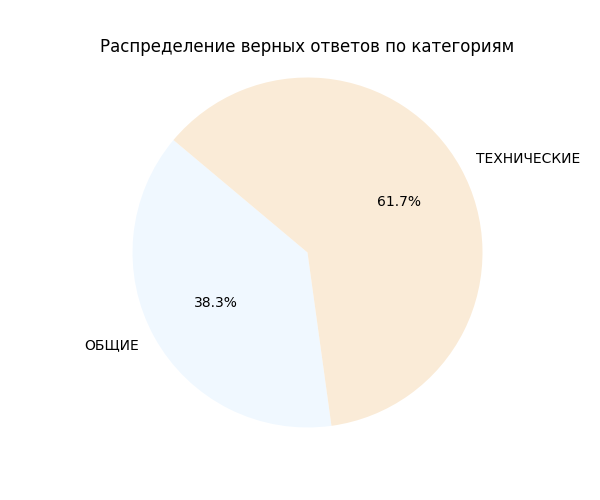
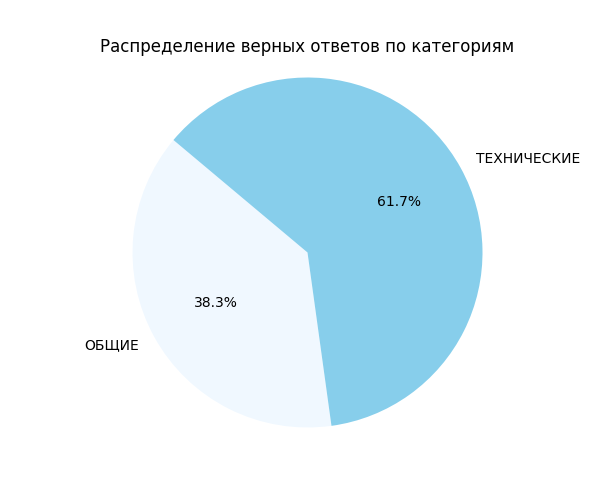
it get stat and displays it in html

Changed region(s): [[0.27, 0.15, 0.81, 0.87]]

diff --git a/magicflot/templates/magicflot/base.html b/magicflot/templates/magicflot/base.html
@@ -21,7 +21,7 @@
 
 <nav class="navbar navbar-expand-lg navbar-dark gradient_bg" >
   <div class="container-fluid">
-    <a class="navbar-brand" href="https://%D0%B3%D0%BE%D1%80%D0%BE%D0%B4%D0%B2%D0%BE%D0%BB%D1%88%D0%B5%D0%B1%D0%BD%D1%8B%D1%85%D0%BA%D0%BE%D1%80%D0%B0%D0%B1%D0%BB%D0%B5%D0%B9.%D1%80%D1%84/">    
+    <a class="navbar-brand" href='{% url "magicflot:index" %}'>    
     <img class='logo_tech pe-1' src='{% static "logo_tech.png" %}'>
 
     <svg width="139" height="74" viewBox="0 0 139 74" fill="none" xmlns="http://www.w3.org/2000/svg">
@@ -69,14 +69,29 @@
 
 <footer class='gradient_bg fixed-bottom'>
   
-  <div class="d-flex justify-content-center py-1">
-    <a class="nav-link white_milk" href='{% url "magicflot:game" %}'>Игра</a>
-    <a class="nav-link white_milk" href='{% url "gallery:gallery" %}'>Галерея</a>
-    <a class="nav-link white_milk" href='{% url "magicflot:about" %}'>О проекте</a>
-    <a class="nav-link white_milk" href='{% url "magicflot:blog" %}'>Блог</a>
-    <a class="nav-link white_milk" href='{% url "magicflot:book" %}'>Сборник</a>
-    
-    </div>
+  <div class='d-none d-md-block d-lg-block d-xl-block d-xxl-block'>
+	  <div class="d-flex justify-content-center py-1">
+	    <a class="nav-link white_milk" href='{% url "magicflot:game" %}'>Игра</a>
+	    <a class="nav-link white_milk" href='{% url "gallery:gallery" %}'>Галерея</a>
+	    <a class="nav-link white_milk" href='{% url "magicflot:about" %}'>О проекте</a>
+	    <a class="nav-link white_milk" href='{% url "magicflot:blog" %}'>Блог</a>
+	    <a class="nav-link white_milk" href='{% url "magicflot:book" %}'>Сборник</a>
+	  </div>
+  </div>
+
+  <div class='d-block d-md-none'>
+			<div class="d-flex justify-content-center py-1">
+		    <a class="nav-link white_milk" href='{% url "magicflot:game" %}'>Игра</a>
+		    <a class="nav-link white_milk" href='{% url "gallery:gallery" %}'>Галерея</a>
+		    <a class="nav-link white_milk" href='{% url "magicflot:book" %}'>Сборник</a>
+		  </div>
+
+			<div class="d-flex justify-content-center py-1">
+	    	<a class="nav-link white_milk" href='{% url "magicflot:about" %}'>О проекте</a>
+		    <a class="nav-link white_milk" href='{% url "magicflot:blog" %}'>Блог</a>
+		  </div>
+	</div>
+
 	<center>
 	
 		<p class='copyright pt-3'>© 2024, ГОРОД ВОЛШЕБНЫХ КОРАБЛЕЙ </p>

diff --git a/magicflot/templates/magicflot/stat.html b/magicflot/templates/magicflot/stat.html
@@ -6,6 +6,15 @@
 	body{
 		background: rgb(48, 147, 128);
 	}
+	.all_bars_container{
+		display: grid;
+		grid-gap: 10px;
+		grid-template-columns: repeat(auto-fit, minmax(500px, 1fr));
+		width: 96%;
+	  	margin-left: auto;
+		margin-right: auto;
+	}
+
 @media (min-width: 1025px){
 	.h22em { max-height: 32em; }
 }
@@ -33,9 +42,15 @@
 		</div>
 
 
+		<div class='all_bars_container'>
+			{% for bar in bars %}
+				<img class='h22em' src="{% static 'bars/' %}{{ bar }}" alt='{{ bar }}'>
+			{% endfor %}
+		</div>
+
 	</div>
 </div>
-<br><br><br><br>
+<br><br><br><br><br>
 
 <script src='{% static "js/glittering.js" %}'></script> 
 

diff --git a/magicflot/stat.py b/magicflot/stat.py
@@ -2,6 +2,8 @@ import os
 import json
 import matplotlib.pyplot as plt
 import matplotlib.colors as mcolors
+import textwrap
+from collections import defaultdict
 from django.conf import settings
 
 
@@ -23,11 +25,9 @@ def generate_pie_chart(game_sessions):
     question_true_count = 0
     question_false_count = 0
 
-    
     pie_chart_dir = os.path.join(settings.BASE_DIR, 'static/pies')
     if not os.path.exists(pie_chart_dir):
         os.makedirs(pie_chart_dir)
-
 
     for session in game_sessions:
         for answer in session['how_it_was']['answered_questions']:
@@ -42,7 +42,8 @@ def generate_pie_chart(game_sessions):
 
     labels = ['ОБЩИЕ', 'ТЕХНИЧЕСКИЕ']
     sizes = [g_true_count, t_true_count]
-    colors = list(mcolors.CSS4_COLORS.values())[:len(labels)]
+    colors=['aliceblue', 'skyblue']
+    #colors=['chocolate', 'darkorange']
     plt.figure(figsize=(6, 5))
     plt.pie(sizes, labels=labels, colors=colors, autopct='%1.1f%%', startangle=140)
     plt.axis('equal')
@@ -52,12 +53,52 @@ def generate_pie_chart(game_sessions):
 
     labels = ['ВЕРНЫЕ', 'НЕПРАВИЛЬНЫЕ']
     sizes = [question_true_count, question_false_count]
-    colors = list(mcolors.CSS4_COLORS.values())[len(labels):len(labels)+len(labels)]
+    colors=['lightgreen', 'salmon']
     plt.figure(figsize=(5, 5))
     plt.pie(sizes, labels=labels, colors=colors, autopct='%1.1f%%', startangle=140)
     plt.axis('equal')
     plt.title('Соотношение всех ответов на вопросы викторины')
     plt.savefig(os.path.join(pie_chart_dir, 'true_false_pie_chart.png'), transparent=True)
+
+
+def generate_bar(game_sessions):
+    bar_chart_dir = os.path.join(settings.BASE_DIR, 'static/bars')
+
+    question_stats = defaultdict(lambda: {'True': 0, 'False': 0})
+
+    for session in game_sessions:
+        for question_data in session['how_it_was']['answered_questions']:
+            question = question_data['question']
+            value = question_data['value']
+
+            # Ensure the question string is properly formatted before using it as a key
+            question_key = str(question)
+
+            if value == 'True':
+                question_stats[question_key]['True'] += 1
+            elif value == 'False':
+                question_stats[question_key]['False'] += 1
+
+    unique_questions = set([question_data['question'] for session in game_sessions for question_data in session['how_it_was']['answered_questions']])
+
+    for question in unique_questions:
+        data = question_stats[str(question)]
+        labels = ['ВЕРНЫЕ', 'НЕ ВЕРНЫЕ']
+        true_values = data['True']
+        false_values = data['False']
+        x = range(len(labels))
+
+        wrapped_question = textwrap.fill(question, width=40)
+
+        plt.figure()
+        plt.bar(x, [true_values, false_values], color=['lightgreen', 'salmon'])
+        plt.xticks(x, labels)
+        plt.xlabel('Ответы')
+        plt.ylabel('Количество')
+        plt.title(f'{wrapped_question}', y=0.4)
+        plt.savefig(os.path.join(bar_chart_dir, f'{question[:30]}.png'), transparent=True)
+
+
 
 # Load game sessions data
 game_sessions = load_game_sessions()
@@ -65,6 +106,8 @@ game_sessions = load_game_sessions()
 # Generate pie charts based on the game sessions data
 generate_pie_chart(game_sessions)
 
+# Generate bar for each question
+generate_bar(game_sessions)
 
 
 def get_statistics(game_sessions):

diff --git a/magicflot/views.py b/magicflot/views.py
@@ -114,5 +114,8 @@ def save_game_session(request):
 def stat(request):
 	game_sessions = load_game_sessions()
 	game_sessions_count, all_questions = get_statistics(game_sessions)
+
+	bar_chart_dir = os.path.join(settings.BASE_DIR, 'static/bars')
+	bars = [f for f in os.listdir(bar_chart_dir) if f.endswith('.png')]
 	
-	return render(request, 'magicflot/stat.html', {'game_sessions_count': game_sessions_count, 'all_questions': all_questions})
+	return render(request, 'magicflot/stat.html', {'game_sessions_count': game_sessions_count, 'all_questions': all_questions, 'bars': bars})
